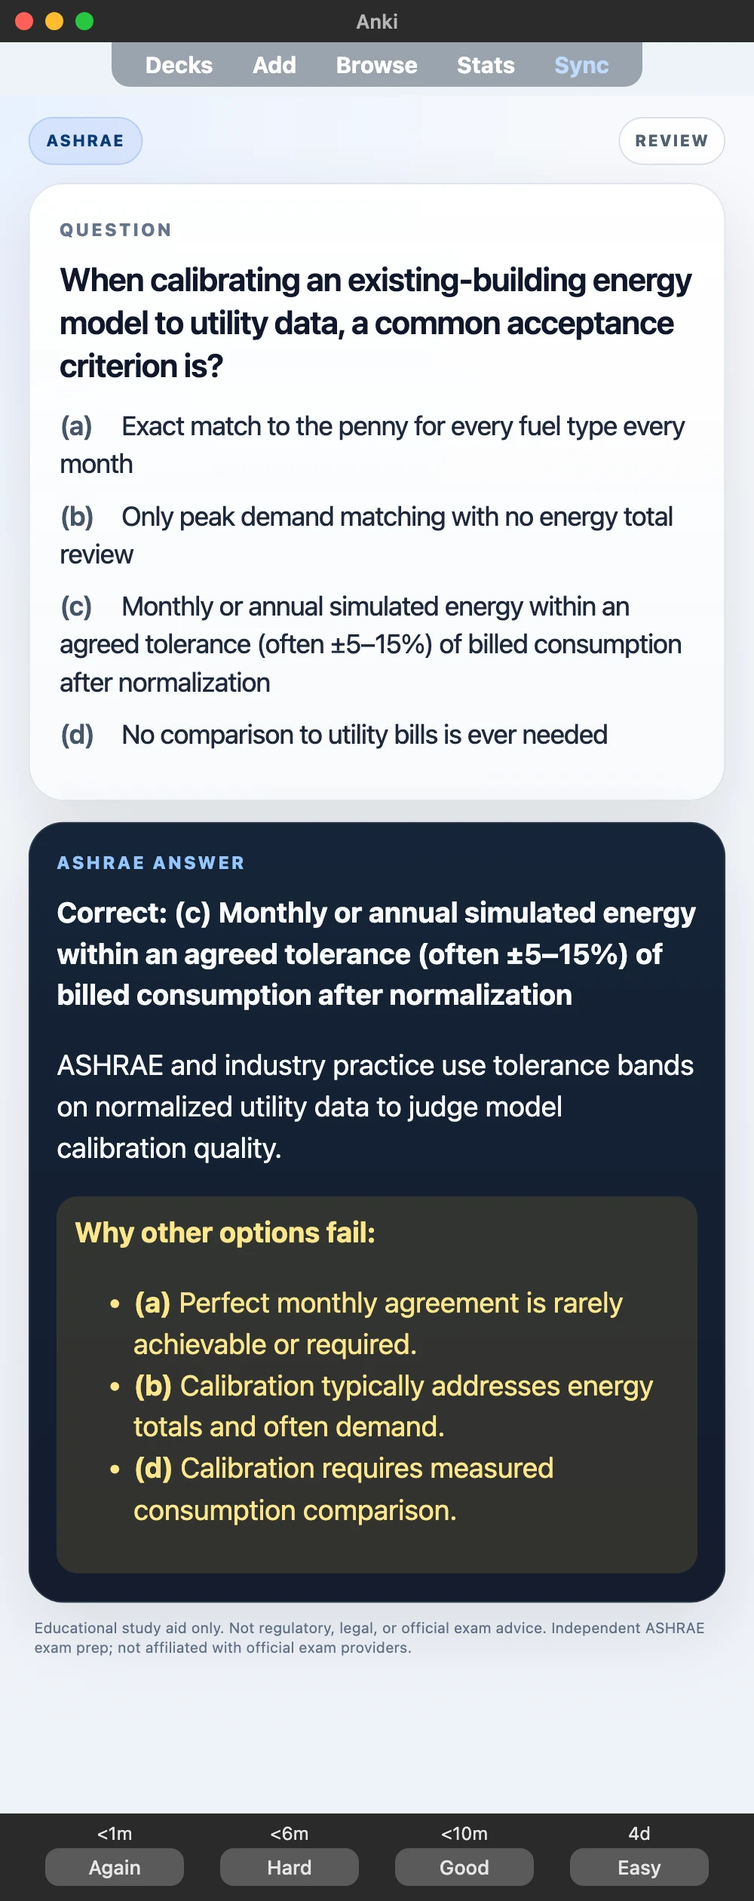
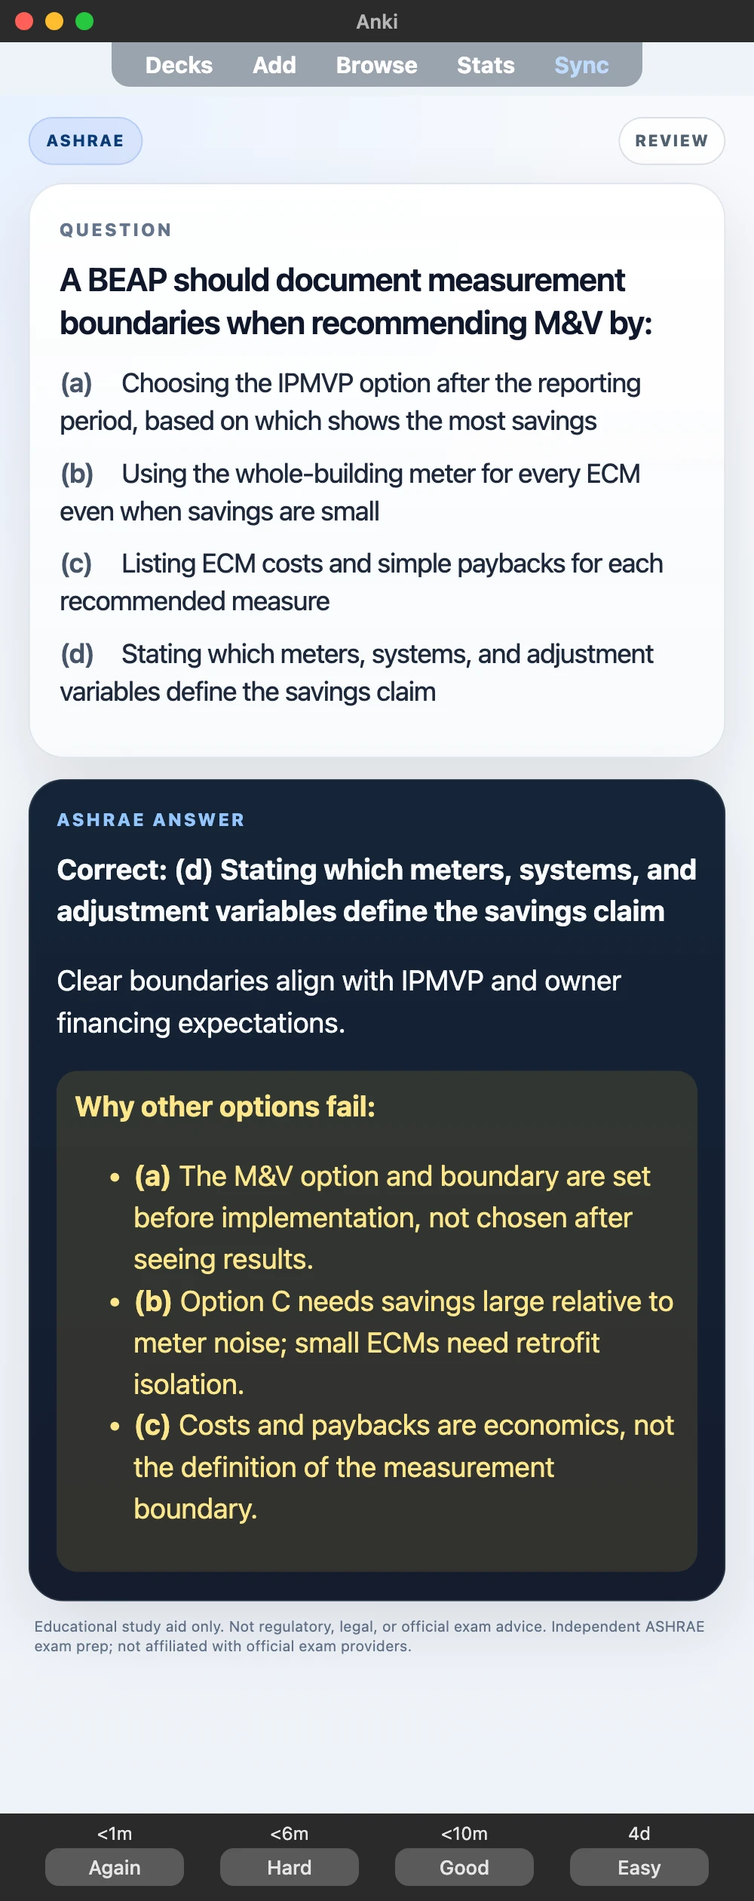
Point-fix the ASHRAE bank and cite the official PTCE practice tools.
The 250-item bank keeps the 50-question session, and the deck samples match the rebuilt cards. The PTCE page now lists PTCB's $65 Practice Bank and $29 Pre-PTCE. The Series 7 mock price matches the $19 deck.

Changed region(s): [[0.031, 0.1238, 0.961, 0.8048], [0.062, 0.8357, 0.713, 0.8667], [0.744, 0.8357, 0.93, 0.8667]]

diff --git a/landing-pages/building/ashrae-certifications-anki-deck.html b/landing-pages/building/ashrae-certifications-anki-deck.html
@@ -11,8 +11,8 @@
   <meta property="og:title" content="ASHRAE Anki Deck — 250 Flashcards | ASHRAE personnel certifications (BEMP, BEAP, BCxP &amp; related) Prep | PixiD Studio">
   <meta property="og:description" content="250 Anki flashcards for the ASHRAE personnel certifications (BEMP, BEAP, BCxP &amp; related). Per-credential pass standards — verify in the current ASHRAE candidate handbook for your exam. MCQs with explanations — independent prep, not official ASHRAE material.">
   <meta property="og:url" content="https://pixidstudio.gumroad.com/l/ashrae-certifications-anki-deck">
-  <meta property="og:image" content="https://public-files.gumroad.com/nmpikcteqcb77s4f9dx7lw5oatep">
-  <meta name="twitter:image" content="https://public-files.gumroad.com/nmpikcteqcb77s4f9dx7lw5oatep">
+  <meta property="og:image" content="https://public-files.gumroad.com/ymqq63nd0zj3vs51a76zddr8qfyy">
+  <meta name="twitter:image" content="https://public-files.gumroad.com/ymqq63nd0zj3vs51a76zddr8qfyy">
   <meta name="twitter:card" content="summary_large_image">
   <meta name="theme-color" content="#f7f3ea">
   <link rel="preconnect" href="https://cdn.tailwindcss.com">
@@ -33,8 +33,8 @@
 <body class="antialiased font-sans">
   <header class="sticky top-0 z-50 border-b backdrop-blur-md" style="background:color-mix(in srgb,var(--bg) 88%,transparent);border-color:var(--border)">
     <div class="max-w-4xl mx-auto px-6 py-4 flex items-center justify-between gap-4">
-      <p class="font-semibold text-sm truncate" data-gumroad-field="name">ASHRAE Certifications Anki Deck — 250 Flashcards</p>
-      <a href="https://pixidstudio.gumroad.com/l/ashrae-certifications-anki-deck" data-gumroad-action="buy" class="btn-buy rounded-full px-5 py-2.5 text-sm font-semibold" rel="noopener noreferrer">Buy — <span data-gumroad-field="price">$11</span></a>
+      <p class="font-semibold text-sm truncate" data-gumroad-field="name">ASHRAE Certification Anki Deck — 250 Flashcards (BCxP, BEAP, BEMP, OPMP)</p>
+      <a href="https://pixidstudio.gumroad.com/l/ashrae-certifications-anki-deck" data-gumroad-action="buy" class="btn-buy rounded-full px-5 py-2.5 text-sm font-semibold" rel="noopener noreferrer">Buy — <span data-gumroad-field="price">$9.99</span></a>
     </div>
   </header>
 
@@ -50,12 +50,12 @@
           <li class="flex gap-3"><span class="text-accent font-bold">✓</span><span>Built for the ASHRAE personnel certifications (BEMP, BEAP, BCxP &amp; related)</span></li><li class="flex gap-3"><span class="text-accent font-bold">✓</span><span>250 MCQ cards across 5 topic domains</span></li><li class="flex gap-3"><span class="text-accent font-bold">✓</span><span>Question, four options, correct answer, and explanation on every card</span></li><li class="flex gap-3"><span class="text-accent font-bold">✓</span><span>Same validated bank as the free readiness check on UniPrep2Go</span></li><li class="flex gap-3"><span class="text-accent font-bold">✓</span><span>Mobile sync via AnkiWeb (AnkiMobile / AnkiDroid)</span></li>
         </ul>
         <div class="flex flex-col gap-3 sm:flex-row pt-2">
-          <a href="https://pixidstudio.gumroad.com/l/ashrae-certifications-anki-deck" data-gumroad-action="buy" class="btn-buy inline-flex items-center justify-center rounded-full px-6 py-3 text-sm font-semibold" rel="noopener noreferrer">Get instant access — <span data-gumroad-field="price">$11</span></a>
+          <a href="https://pixidstudio.gumroad.com/l/ashrae-certifications-anki-deck" data-gumroad-action="buy" class="btn-buy inline-flex items-center justify-center rounded-full px-6 py-3 text-sm font-semibold" rel="noopener noreferrer">Get instant access — <span data-gumroad-field="price">$9.99</span></a>
           <a href="https://uniprep2go.study/mock-exams/ashrae-certifications-readiness-check" class="btn-secondary inline-flex items-center justify-center rounded-full px-6 py-3 text-sm font-semibold" rel="noopener">Try free readiness check first</a>
         </div>
-        <p class="text-sm leading-7 text-muted">Independent ASHRAE personnel certifications (BEMP, BEAP, BCxP &amp; related) study aid. Delivered as a .apkg file for <span data-gumroad-field="price">$11</span>. Not official ASHRAE material.</p>
+        <p class="text-sm leading-7 text-muted">Independent ASHRAE personnel certifications (BEMP, BEAP, BCxP &amp; related) study aid. Delivered as a .apkg file for <span data-gumroad-field="price">$9.99</span>. Not official ASHRAE material.</p>
       </div>
-      <figure class="overflow-hidden rounded-3xl theme-card shadow-lg"><img src="https://public-files.gumroad.com/nmpikcteqcb77s4f9dx7lw5oatep" alt="ASHRAE Anki deck cover" class="w-full h-auto object-cover" loading="eager"></figure>
+      <figure class="overflow-hidden rounded-3xl theme-card shadow-lg"><img src="https://public-files.gumroad.com/ymqq63nd0zj3vs51a76zddr8qfyy" alt="ASHRAE Anki deck cover" class="w-full h-auto object-cover" loading="eager"></figure>
     </div>
 
     <section id="exam" class="mt-12" aria-labelledby="exam-heading">
@@ -114,7 +114,7 @@
       <div class="theme-card rounded-3xl p-8 sm:p-10 text-center">
         <h2 id="pricing-heading" class="text-2xl font-semibold">Ready to drill?</h2>
         <p class="mt-3 text-muted max-w-lg mx-auto text-sm leading-relaxed">One-time purchase. Instant .apkg download. Built from the same bank as the free readiness check.</p>
-        <p class="mt-2 text-4xl font-semibold"><span data-gumroad-field="price">$11</span></p>
+        <p class="mt-2 text-4xl font-semibold"><span data-gumroad-field="price">$9.99</span></p>
         <p class="hidden" data-gumroad-field="description" aria-hidden="true">250 Anki flashcards for the ASHRAE personnel certifications (BEMP, BEAP, BCxP &amp; related). Per-credential pass standards — verify in the current ASHRAE candidate handbook for your exam. MCQs with explanations — independent prep, not official ASHRAE material.</p>
         <a href="https://pixidstudio.gumroad.com/l/ashrae-certifications-anki-deck" data-gumroad-action="buy" class="btn-buy mt-6 inline-flex rounded-full px-8 py-3.5 text-sm font-semibold" rel="noopener noreferrer">I want this — instant download</a>
         <p class="mt-4 text-xs text-muted">Independent study aid · Not official ASHRAE material · Digital download — all sales final.</p>

diff --git a/src/lib/mock-exams/seo.ts b/src/lib/mock-exams/seo.ts
@@ -226,7 +226,7 @@ const mockSeoProfiles: Partial<Record<string, MockSeoProfileOverride>> = {
   "series-7-readiness-check": {
     title: "Series 7 Practice Test 2026 | 60Q Timed, 25Q Free",
     description:
-      "Series 7 practice test — free 25-question diagnostic, no signup; full mock: 60 timed questions across FINRA job-function weights, 90 minutes, 72% UniPrep2Go readiness target, topic scoring — then repair with Series 7 flashcards ($9.99 / 300-card Anki). Official Top-Off is 130 questions (125 scored + 5 pretest) / 3h45 / passing score 72 / FINRA fee $395; this check is shorter. Independent — not FINRA material.",
+      "Series 7 practice test — free 25-question diagnostic, no signup; full mock: 60 timed questions across FINRA job-function weights, 90 minutes, 72% UniPrep2Go readiness target, topic scoring — then repair with Series 7 flashcards ($19 / 300-card Anki). Official Top-Off is 130 questions (125 scored + 5 pretest) / 3h45 / passing score 72 / FINRA fee $395; this check is shorter. Independent — not FINRA material.",
     keywords: [
       "series 7 practice test",
       "free series 7 practice test",
@@ -237,7 +237,7 @@ const mockSeoProfiles: Partial<Record<string, MockSeoProfileOverride>> = {
     ],
     headline: "Series 7 Practice Test — 60 Questions (Free 25-Question Version)",
     intro:
-      "A timed Series 7 Top-Off diagnostic across seeking business, opening accounts, recommendations and suitability, and obtaining customer instructions — then drill weak job functions with [Series 7 flashcards](/decks/series-7-anki-deck) ($9.99 / 300 cards). Official FINRA Series 7 is 130 questions (125 scored + 5 pretest) / 3 hours 45 minutes / passing score 72 / FINRA fee $395; this free check is a shorter weighted diagnostic, not a full-length 125Q bank.",
+      "A timed Series 7 Top-Off diagnostic across seeking business, opening accounts, recommendations and suitability, and obtaining customer instructions — then drill weak job functions with [Series 7 flashcards](/decks/series-7-anki-deck) ($19 / 300 cards). Official FINRA Series 7 is 130 questions (125 scored + 5 pretest) / 3 hours 45 minutes / passing score 72 / FINRA fee $395; this free check is a shorter weighted diagnostic, not a full-length 125Q bank.",
     audience: "Series 7 Top-Off candidates who want a timed diagnostic before drilling suitability and product questions.",
     practiceTestLabel: "Series 7 practice test",
   },

diff --git a/src/lib/mock-exams/practice-options-compared.ts b/src/lib/mock-exams/practice-options-compared.ts
@@ -226,6 +226,48 @@ const TABLES: Record<string, PracticeOptionsCompared> = {
       },
     ],
   },
+  "ptcb-pharmacy-technician-mock": {
+    mockSlug: "ptcb-pharmacy-technician-mock",
+    examLabel: "PTCE",
+    heading: "PTCE practice options compared",
+    checkedDate: "2026-10-31",
+    lead:
+      "PTCB sells two account tools. UniPrep2Go is the free timed diagnostic: 25 questions with no signup, then 90 questions in 110 minutes and domain scores. The official PTCE is 90 items (80 scored) in 1 hour 50 minutes, and the pass line is a scaled 1,400, not a percent. Not PTCB material.",
+    rows: [
+      {
+        name: "UniPrep2Go PTCE practice test",
+        href: "/mock-exams/ptcb-pharmacy-technician-mock",
+        format: "25 free, no signup; full timed mock 90 questions / 110 minutes with domain scores",
+        access: "Free start; Mock Pass for retakes",
+        notes:
+          "Independent diagnostic on the January 2026 outline, drawn from a 180-item bank. Readiness target is 70%. Official pass is scaled 1,400.",
+      },
+      {
+        name: "PTCB — PTCE Practice Bank",
+        href: "https://ptcb.org/official-ptcb-practice-tools/",
+        format: "300+ retired PTCE questions and a 400-card study deck; the candidate sets the length, difficulty, and timer",
+        access: "PTCB Account, $65, 90 days of unlimited use (PTCB page, checked 2026-10-31)",
+        notes: "Not a single fixed-length mock. Access ends early if the candidate certifies during the 90 days.",
+      },
+      {
+        name: "PTCB — Pre-PTCE",
+        href: "https://ptcb.zendesk.com/hc/en-us/articles/9310795263757-At-a-Glance-PTCE-Practice-Bank",
+        format: "90 questions in the look of the PTCE; one attempt, finished within 48 hours of starting",
+        access: "PTCB Account, $29, 90-day authorization (PTCB help article, updated 2025-07-17, checked 2026-10-31)",
+        notes: "PTCB tells candidates to use the Practice Bank first and the Pre-PTCE as the last check.",
+      },
+    ],
+    sources: [
+      {
+        label: "PTCB — official practice tools",
+        url: "https://ptcb.org/official-ptcb-practice-tools/",
+      },
+      {
+        label: "PTCB — Practice Bank at a glance",
+        url: "https://ptcb.zendesk.com/hc/en-us/articles/9310795263757-At-a-Glance-PTCE-Practice-Bank",
+      },
+    ],
+  },
 };
 
 export function getPracticeOptionsCompared(

diff --git a/src/lib/decks.ts b/src/lib/decks.ts
@@ -4021,21 +4021,21 @@ const rawDecks: Deck[] = [
     ],
     sampleCards: [
       {
-        question: "An assessment finding open outdoor air dampers in winter suggests",
+        question: "When documenting model assumptions for a client report, BEMP best practice includes?",
         answer:
-          "Correct: (d) Economizer or damper actuator failure causing massive heating load Stuck dampers are common retrocommissioning fixes with fast payback.",
+          "Correct: (c) A clear table of key inputs, data sources, software version, and known limitations Documented assumptions enable third-party review and future updates.",
         imageUrl: "/samples/ashrae-certifications-anki-deck-sample-1.webp",
       },
       {
-        question: "Pump affinity laws indicate pump power scales approximately with:",
+        question: "Air-side economizer design per ASHRAE 90.1 requires:",
         answer:
-          "Correct: (c) The cube of speed (or flow) ratio for variable-speed applications VFDs on variable-load pumps yield significant energy savings.",
+          "Correct: (b) Evaluating climate zone thresholds, high-limit shutoffs, and integration with mechanical cooling Economizer requirements depend on climate zone and cooling system capacity.",
         imageUrl: "/samples/ashrae-certifications-anki-deck-sample-2.webp",
       },
       {
-        question: "When calibrating an existing-building energy model to utility data, a common acceptance criterion is?",
+        question: "A BEAP should document measurement boundaries when recommending M&V by:",
         answer:
-          "Correct: (c) Monthly or annual simulated energy within an agreed tolerance (often ±5–15%) of billed consumption after normalization ASHRAE and industry practice use tolerance bands on normalized utility data to judge model calibration quality.",
+          "Correct: (d) Stating which meters, systems, and adjustment variables define the savings claim Clear boundaries align with IPMVP and owner financing expectations.",
         imageUrl: "/samples/ashrae-certifications-anki-deck-sample-3.webp",
       },
     ],

diff --git a/src/lib/mock-exams/practice-options-compared.test.ts b/src/lib/mock-exams/practice-options-compared.test.ts
@@ -30,6 +30,15 @@ describe("getPracticeOptionsCompared", () => {
     expect(table!.sources.some((s) => s.url.includes("finra.org"))).toBe(true);
   });
 
+  it("returns a PTCE table from the PTCB practice-tools page", () => {
+    const table = getPracticeOptionsCompared("ptcb-pharmacy-technician-mock");
+    expect(table).not.toBeNull();
+    expect(table!.checkedDate).toBe("2026-10-31");
+    expect(table!.rows.some((r) => /Practice Bank/.test(r.name) && /\$65/.test(r.access))).toBe(true);
+    expect(table!.rows.some((r) => /Pre-PTCE/.test(r.name) && /\$29/.test(r.access))).toBe(true);
+    expect(table!.sources.some((s) => s.url.includes("ptcb.org/official-ptcb-practice-tools"))).toBe(true);
+  });
+
   it("returns null for mocks without a table", () => {
     expect(getPracticeOptionsCompared("nha-cpct-readiness-check")).toBeNull();
   });

diff --git a/src/lib/exam-facts.ts b/src/lib/exam-facts.ts
@@ -259,6 +259,10 @@ const examProfiles: Record<string, ExamFactsProfile> = {
         q: "Do you need to pass the SIE before Series 7?",
         a: "Yes. FINRA requires passing the SIE before the Series 7 Top-Off for new registrants.",
       },
+      {
+        q: "How long must I wait to retake the Series 7 after a fail?",
+        a: "From 19 January 2027, FINRA’s published retake schedule shortens the Series 7 waiting period to 15 days (confirm on finra.org before you schedule). Until that effective date, follow the waiting periods on FINRA’s current qualification exams page.",
+      },
     ],
   },
   "series-63": {

diff --git a/docs/mock-bank-qa/bank-audit-ledger.md b/docs/mock-bank-qa/bank-audit-ledger.md
@@ -8,12 +8,14 @@ Current per-SKU status + last-work date: `sku-status.md` (`npm run sku:status`).
 
 | Started | Slugs | Work | Status / blocker |
 |---|---|---|---|
+| 2026-10-31 | `bms-bas-readiness-check` · `bms-building-automation-anki-deck` | Rewrite the template 60 and expand to 120. Session stays 60 / 75 min. Then live-deck cascade. Shipped deck is a separate 200-card file, not this bank. | Writers on eight chunks. |
 | 2026-10-24 | `swiss-citizenship-readiness-check` · `naturalisation-suisse-readiness-check` · `naturalizzazione-svizzera-readiness-check` | Swiss DE/FR/IT mock banks still 60/60 — expand to ≥120 | Anki 207×3 teaching lines shipped to Gumroad (`261024-0821`); bank expand next. Stays on the November civic days |
 
 ## Done
 
 | Date | Mock slug | Deck slug | Gates | Content review | Cascade | Notes |
 |---|---|---|---|---|---|---|
+| 2026-10-30 | `ashrae-certifications-readiness-check` | `ashrae-certifications-anki-deck` | audit 0 FAIL · validate READY · 250 · keys a57/d61/b53/c79 · ops ready | Five topics. Spliced BCxP 1, CHD 5, OPMP 2, BEAP 1, BEMP 7. Lengthened the 31 thin explanations. Session stays 50 / 100 min | `ASHRAE_Certifications_FULL_250.apkg` replaced. Samples: model assumptions, economizer, M&V boundary. Classic Gumroad page, 4 covers HTTP 200 | Smell board counts 153 explanations under 100 characters; the fail line is 60 and is clean. AEO 2026-10-30: ASHRAE FAQ and the BCxP guidebook still say 130 items / 120 scored / 2.5 h. Practice-exam page still $49 / 30 questions |
 | 2026-10-29 | `real-estate-appraiser-readiness-check` · `issa-cpt-readiness-check` · `cdl-hazmat-readiness-check` · `forklift-operator-readiness-check` | `real-estate-appraiser-anki-deck` (live, stays 60) · `issa-cpt-anki-deck` (planned 120) · `cdl-hazmat-anki-deck` · `forklift-operator-anki-deck` | audit 0 FAIL · appraiser and ISSA 120 · keys 30/30/30/30 | Appraiser math 1, ethics 2. ISSA special-pops 1. HazMat parking item restored. Forklift stability: lower-then-turn, no invented derate, rear swings about the front axle | No apkg. Appraiser file stays 60 cards. ISSA specs 120, not a live download. Ops ready | Search-referred remainder after the 120-bank ship |
 | 2026-10-29 | `wastewater-operator-1-readiness-check` · `cscs-nsca-readiness-check` · `funeral-service-arts-readiness-check` · `series-66-readiness-check` · `forklift-operator-readiness-check` · `cdl-hazmat-readiness-check` | `wastewater-operator-1-anki-deck` · `cscs-nsca-anki-deck` · `funeral-service-arts-anki-deck` · `series-66-anki-deck` · `forklift-operator-anki-deck` · `cdl-hazmat-anki-deck` | audit 0 FAIL · banks 120 · keys 30/30/30/30 except Series 66 28/31/28/33 | Wastewater process 1 + regs 2 spliced; CSCS exercise-sci 1 spliced; funeral four topics clean. Series 66 thin notes rewritten in place. Forklift inspection clean; other forklift and all HazMat topic reviews still open at ship | Specs cardCount 120 on the five planned decks. Series 66 Anki stays the live 120-card deck; no apkg rebuild. Session 60 / 75 min. llms + ops ready | Search-referred not-ok set. Appraiser and ISSA stay in progress |
 | 2026-10-28 | `nremt-aemt-readiness-check` · `capm-readiness-check` | `nremt-aemt-anki-deck` · `capm-anki-deck` (planned) | audit 0 FAIL · 120 each · keys 30/30/30/30 | 7 topic writers + main-chat pharmacology. Scope spot-read: supraglottic not intubation, no needle decompression, no TXA. CAPM team-dynamics remap removed | Specs cardCount 120. No apkg, no Gumroad. AEMT 135Q / 3 h / 35 unscored. CAPM 150Q / 3 h (135 scored + 15 pretest) | Session stays 60. CAPM rewritten to the 2023 outline |

diff --git a/docs/mock-bank-qa/sku-status.md b/docs/mock-bank-qa/sku-status.md
@@ -1,17 +1,17 @@
 # SKU status board
 
-Generated 2026-10-29 by `npm run sku:status` from the live mock configs, the git bank exports, `audit:bank-quality` and the dated rows in `bank-audit-ledger.md`. Do not edit by hand: add a ledger row for the work, then re-run.
+Generated 2026-10-30 by `npm run sku:status` from the live mock configs, the git bank exports, `audit:bank-quality` and the dated rows in `bank-audit-ledger.md`. Do not edit by hand: add a ledger row for the work, then re-run.
 
 Status: **ok** = 0 FAIL gates, no padding, bank at floor, content review in the ledger · **thin-bank** = clean and reviewed but bank below the 2× floor · **unreviewed** = mechanically clean, never content-reviewed · **small-bank** = clean gates but the unique bank is too small for Mock Pass retakes (60-from-60, 75-from-75…) · **point-fix** = FAIL gates on ≤10% of items (or ≤6), fixable in place · **civic** = citizenship test built on the official question pool (separate standard; never rebuilt from mock fixes; gates shown for reference) · **rewrite** = FAIL on >10% of items, a bank-level FAIL (key bias, longest-correct rate) or length padding. Small banks also list “bank N for NQ session” under issues.
 
 | Status | SKUs | with live Anki |
 |---|---|---|
-| ok | 75 | 38 |
+| ok | 76 | 39 |
 | thin-bank | 0 | 0 |
 | unreviewed | 0 | 0 |
 | small-bank | 15 | 1 |
 | point-fix | 0 | 0 |
-| rewrite | 87 | 25 |
+| rewrite | 86 | 24 |
 | civic | 19 | 18 |
 | **total live mocks** | **196** | **82** |
 
@@ -23,7 +23,6 @@ Products without a mock and catalog totals: bottom of this file.
 |---|---|---|---|---|---|
 | rewrite | `ak-real-estate-readiness-check` | live | 60 / 60 | — | FAIL (18 items): template/thin distractor notes, thin/template explanations; bank 60 for 60Q session; no content review in ledger |
 | rewrite | `ar-real-estate-readiness-check` | live | 60 / 60 | — | FAIL (15 items): template/thin distractor notes, thin/template explanations; bank 60 for 60Q session; no content review in ledger |
-| rewrite | `ashrae-certifications-readiness-check` | live | 50 / 250 | — | FAIL (31 items): template/thin distractor notes, thin/template explanations; no content review in ledger |
 | rewrite | `az-real-estate-readiness-check` | live | 60 / 60 | — | FAIL (18 items): template/thin distractor notes, thin/template explanations; bank 60 for 60Q session; no content review in ledger |
 | rewrite | `bms-bas-readiness-check` | live | 60 / 60 | — | FAIL (182 items): near-duplicate / templated stems (>=0.8), template/thin distractor notes, thin/template explanations; bank 60 for 60Q session; no content review in ledger |
 | rewrite | `california-real-estate-readiness-check` | live | 60 / 60 | 2026-10-15 | FAIL (33 items): duplicate prompts, near-duplicate / templated stems (>=0.8), template/thin distractor notes, thin/template explanations, distractor; bank 60 for 60Q session |
@@ -128,6 +127,7 @@ Products without a mock and catalog totals: bottom of this file.
 | ok | `acsm-cpt-readiness-check` | live | 60 / 120 | 2026-10-18 | — |
 | ok | `al-real-estate-readiness-check` | live | 60 / 120 | 2026-10-20 | — |
 | ok | `ardms-spi-readiness-check` | live | 60 / 120 | 2026-10-18 | — |
+| ok | `ashrae-certifications-readiness-check` | live | 50 / 250 | 2026-10-30 | — |
 | ok | `cdcp-readiness-check` | live | 40 / 250 | 2026-10-14 | — |
 | ok | `cem-readiness-check` | live | 50 / 250 | 2026-10-15 | — |
 | ok | `cfa-level-1-readiness-check` | live | 60 / 120 | 2026-10-25 | — |

diff --git a/docs/mock-bank-qa/competitor-aeo-ledger.md b/docs/mock-bank-qa/competitor-aeo-ledger.md
@@ -29,7 +29,7 @@ Do **not** re-run WebSearch SERP or rewrite cites if `last_pass` is &lt; 60 days
 | ascp-mlt-anki-deck + ascp-mlt-readiness-check | wave pair (Anki planned) | 2026-10-04 | 2026-12-03 | Boston Bing Learn start; beat = free no-signup timed 60Q/75m vs OpenExamPrep/Mometrix/MLSIA 100Q CAT (paywall/volume). Honesty: official 100 CAT / 2h30 / scaled 400; ≠ MLS; CA 80Q/2h. Gap: no CAT engine, UA/immuno/lab-ops folded into 4 buckets. |
 | belgium-flanders-mo-anki-deck + belgium-flanders-mo-readiness-check | civic pair | 2026-10-04 | 2026-12-03 | Bank rewrite 120 Dutch MCQ (ops live); mock = 60Q/45m diagnostic vs AgII 41Q/120m; Anki = Prep2Go 165 not mock clone. SERP cites not rewritten this pass (Tier C civic). |
 | acsm-cpt-anki-deck + acsm-cpt-readiness-check | wave pair | 2026-08-30 | 2026-10-29 | (2026-10-12 facts update: mock now 60Q/75m from 120 bank — no SERP re-run) Pair backfill: $11/120 + free 120Q; official 135Q/150m/550; pitch + mock SEO Anki CTA |
-| ashrae-certifications-anki-deck + ashrae-certifications-readiness-check | building pair | 2026-08-30 | 2026-10-29 | Pair backfill: $11/250 + free 50Q; pitch + mock SEO $11 Anki CTA · 2026-09-29 P0 honesty: no 'same exam' template; multi-credential + official practice exam positioning |
+| ashrae-certifications-anki-deck + ashrae-certifications-readiness-check | building pair | 2026-10-30 | 2026-12-29 | Beat = free 25 then 50Q/100 min topic scores across seven credentials, plus the $9.99/250 deck, against ASHRAE’s one-shot $49 30-question practice exam (not a diagnostic) and OpenExamPrep’s untimed BEMP/BCxP banks. Official facts kept: FAQ + BCxP guidebook still 130 items / 120 scored / 2.5 h; OpenExamPrep’s 173-question / 3.5 h form is not on ashrae.org. Gap: volume versus a single-credential free bank |
 | nebosh-anki-deck + nebosh-readiness-check | building pair | 2026-08-30 | 2026-10-29 | Pair backfill: honest GIC1/GIC2 not-MCQ; $11 + 50Q; pitch + SEO Anki CTA · 2026-09-29 P0 honesty: no 'same exam' template; GIC1=Elements 1–4, Elements 5–11 GIC2-only; 24h window; provisional 45% |
 | well-ap-anki-deck + well-ap-readiness-check | building pair | 2026-08-30 | 2026-10-29 | Pair backfill: $11/250 + 50Q; official 115/2.5h/170; pitch + mock SEO Anki CTA |
 | wave-31 cohort | wave | 2026-08-15 | 2026-10-14 | State-RE / money / DELE compact; see wave-31 doc |
